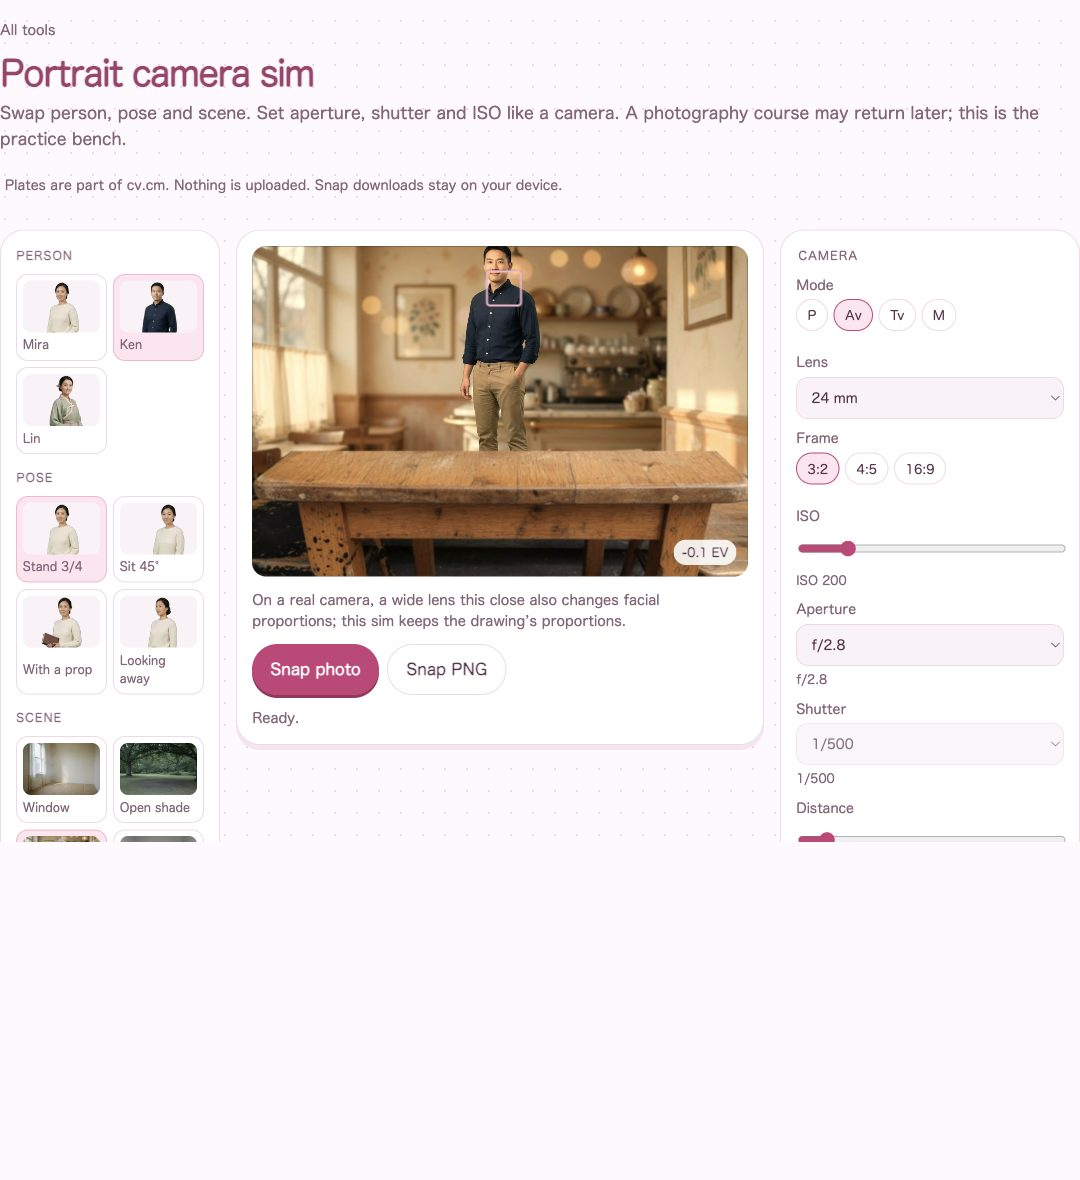
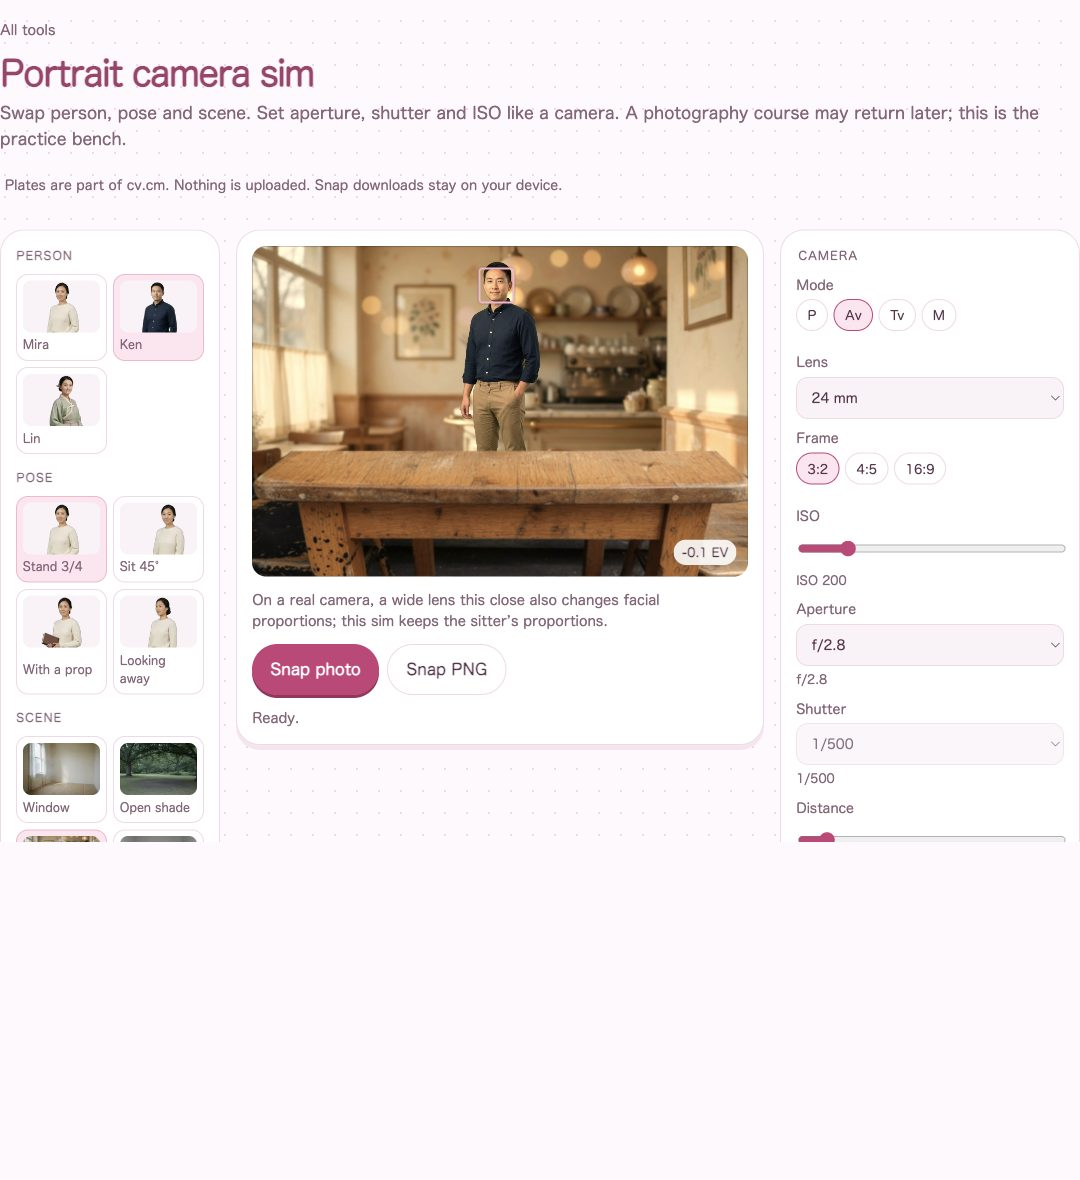
fix: put portrait sim AF box on the sitter eyes on image tools

Changed region(s): [[0.4278, 0.2136, 0.5194, 0.3966], [0.4278, 0.5186, 0.5806, 0.5492]]

diff --git a/tests/camera.test.ts b/tests/camera.test.ts
@@ -160,6 +160,12 @@ describe("catalog", () => {
     expect(catalog.lenses.phone.sensorWidthMm).toBe(6.4);
     for (const item of catalog.cutouts) {
       expect(item.subjectDistanceM).toBe(catalog.poses[item.pose].subjectDistanceM);
+      expect(item.feetY).toBeCloseTo(0.985, 5);
+      if (item.pose === "sit45") {
+        expect(item.eye.y).toBeCloseTo(0.12, 5);
+      } else {
+        expect(item.eye.y).toBeCloseTo(0.1, 5);
+      }
     }
     expect(catalog.scenes.cafe.plates.wide.fgSrc).toBeTruthy();
     expect(catalog.scenes.cafe.plates.tele.fgSrc).toBeTruthy();

diff --git a/src/shared/portrait-sim.ts b/src/shared/portrait-sim.ts
@@ -174,14 +174,15 @@ function scene(
 }
 
 function cutout(person: PersonId, pose: PoseId, distanceM: number): CutoutSpec {
+  const sit = pose === "sit45";
   return {
     person,
     pose,
     src: `/covers/portrait-sim/people/${person}/${pose}.webp?v=${PLATE_VER}`,
     widthPx: 900,
     heightPx: 1400,
-    feetY: 0.97,
-    eye: { x: 0.52, y: pose === "sit45" ? 0.22 : 0.18 },
+    feetY: 0.985,
+    eye: { x: sit ? 0.56 : 0.48, y: sit ? 0.12 : 0.1 },
     subjectDistanceM: distanceM,
   };
 }

diff --git a/src/shared/guide.ts b/src/shared/guide.ts
@@ -83,7 +83,7 @@ export function guideSteps(tool: ToolId): number {
 }
 
 const GUIDE_VER: Partial<Record<ToolId, string>> = {
-  "portrait-sim": "2",
+  "portrait-sim": "3",
 };
 
 export function guideImage(tool: ToolId, step: number): string {
